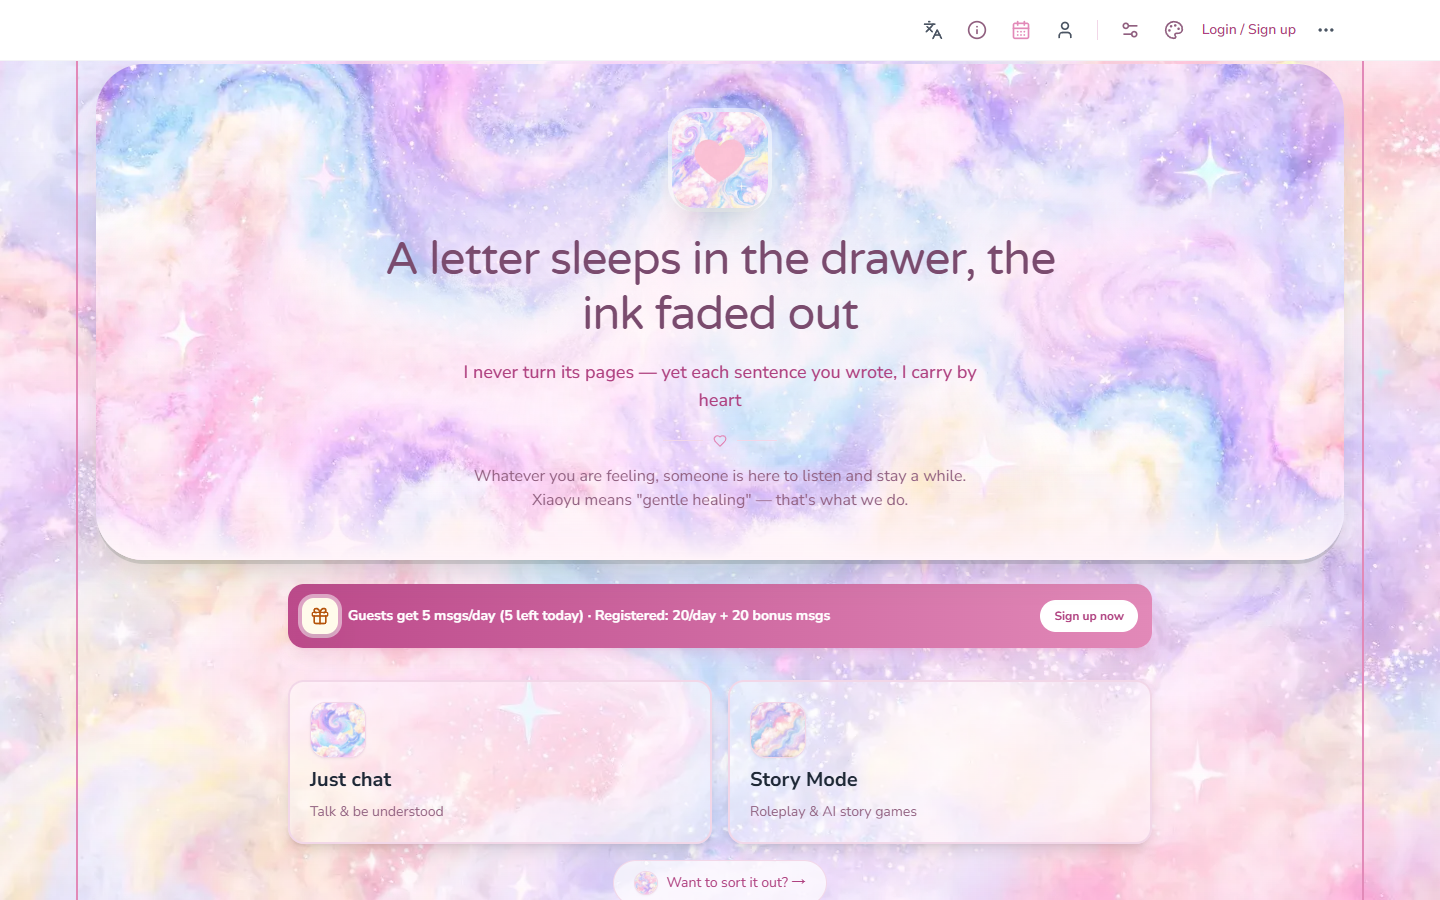
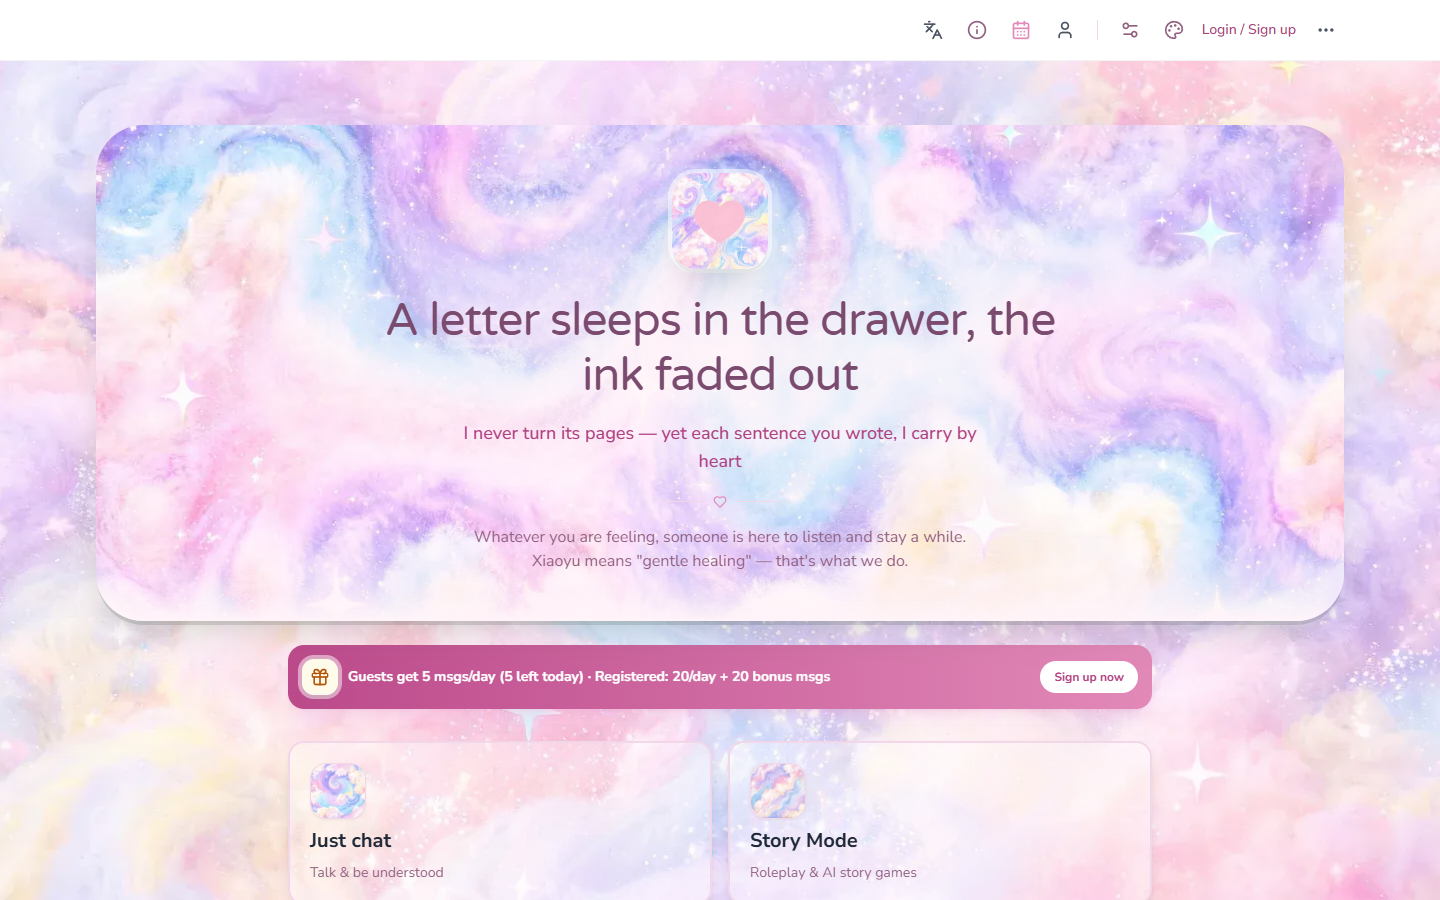
fix(i18n): the built-in companion's name follows the UI language; refresh screenshots
In English, the chat header, the settings panel title, the share card and the speaker labels sent to
the model all displayed the Chinese name 小愈. The display name preferred `activeCharacter.name`, and
the built-in companion's stored record is always named 小愈, so the language branch never applied.
The built-in companion now uses the localised short name (Xiaoyu / 小愈) while custom characters keep
their own name; both name paths (header + activeName) share one source.

Screenshots refreshed: the roleplay shot previously captured the first-run coach mark instead of the
scenario library, and the chat shot still showed the tour overlay. Capture now seeds
cure_rp_coach_seen and dismisses overlays before every shot.

Verified: npm run check = first-party 0 errors; npm run build:seo = 61 pages; 3001 restarted and
/api/health = 200; the English chat view's DOM no longer contains 小愈 in any of the five shots.

diff --git a/src/components/ChatPage.tsx b/src/components/ChatPage.tsx
@@ -805,9 +805,13 @@ export default function ChatPage({ children, onBack, onNeedPay, onOpenMembership
   const activeAvatar = activeCharacter && activeCharacter.id !== 'xiaoyu' ? (activeCharacter.avatar || skinAvatar) : skinAvatar;
   // 头像解析：内置小愈跟随当前皮肤；自定义角色优先自己的头像，无则回退当前皮肤陪伴头像
   const avatarFor = (c: ChatCharacterMeta) => (c.isDefault ? skinAvatar : (c.avatar || skinAvatar));
-  const activeName = activeCharacter?.name || t('appName');
-  // 当前角色的显示名（内置小愈 = 小愈／英文界面 Xiaoyu）：角色级文案（顶栏、设置面板标题…）统一取它
-  const charDisplayName = activeCharacter?.name || (getLang() === 'en' ? 'Xiaoyu' : '小愈');
+  // 内置小愈的显示名**跟随界面语言**；自定义角色一律用自己的名字。
+  // 2026-09-27 修正：此前是 `activeCharacter?.name` 优先，而内置角色的记录名恒为「小愈」，
+  // 于是英文界面的顶栏、设置面板标题、分享卡与给模型的说话人标签都错显成「小愈」。
+  const builtinCompanion = !activeCharacter || activeCharacter.isDefault || activeCharacter.id === 'xiaoyu';
+  const charDisplayName = builtinCompanion ? (getLang() === 'en' ? 'Xiaoyu' : '小愈') : activeCharacter!.name;
+  // 角色名统一口径（顶栏 / 设置面板 / 分享卡 / 模型上下文）
+  const activeName = charDisplayName;
   // 顶栏标题：用短名字（默认小愈官方名过长，窄屏会挤压两侧按钮）；自定义角色名过长时靠 truncate + max-w 截断
   const headerName = charLoading ? '…' : charDisplayName;
   // 开场白：自定义角色用自己的「开场」；未填开场用「我是<名字>…」，不回退成小愈的开场白
